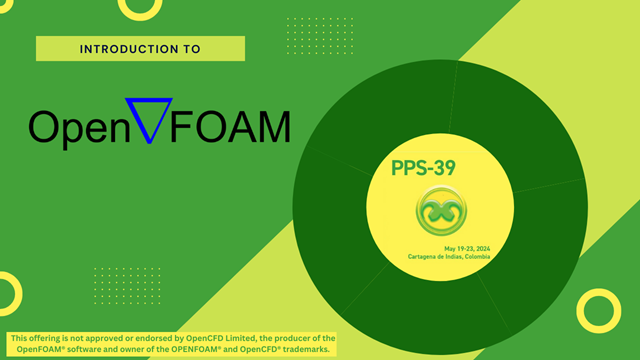
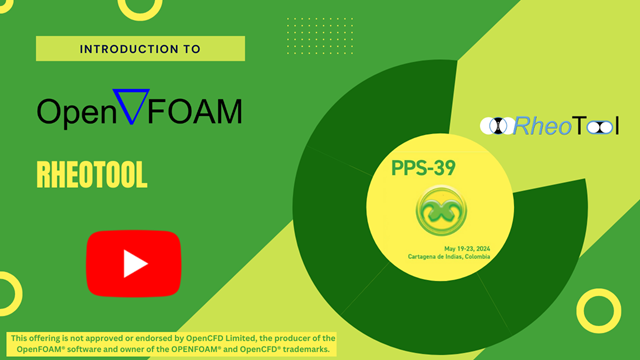
Rheotool

Changed region(s): [[0.0312, 0.2444, 0.4688, 0.5194], [0.6875, 0.1528, 0.9688, 0.55], [0.125, 0.6111, 0.2812, 0.8556]]

diff --git a/0-Setup/README.md b/0-Setup/README.md
@@ -78,3 +78,67 @@ openfoam2206
 ```console
 echo 'shopt -s direxpand' >> .bashrc
 ```
+
+## 6 - Reduced version of Rheotool (https://github.com/fppimenta/rheoTool/)
+
+[![System Setup](images/6.png)](http://www.youtube.com/watch?v=6NyOLJvoeE0 "System preparation")
+
+Move to the home folder
+```console
+cd
+```
+
+6.1 install zip utility
+
+```console
+sudo apt-get install zip
+```
+
+6.2 Copy and unzip the Reduced version of Rheotool from the course repository
+
+```console
+wget https://github.com/Computational-Rheology/PPS39_OFCourse/raw/main/4-Case_studies_Viscoelastic_fluid_flow_solvers/rheotoolPPS39.zip
+```
+
+```console
+unzip rheotoolPPS39.zip
+```
+
+6.3 Load openFOAM environment
+
+```console
+openfoam2206
+```
+
+6.4 Change to the rheotoolPPS39 folder
+
+```console
+cd rheotoolPPS39
+```
+
+6.5 Change to the rheotoolPPS39 folder
+```console
+./downloadEigen
+```
+
+6.6 Copy and run the recommended command, e.g.
+
+> echo "export EIGEN_RHEO=/home/<username>/OpenFOAM/<username>-v2206/ThirdParty/Eigen3.2.9">>/home/<username>/.bashrc
+
+6.7 load the .bashrc file
+
+```console
+. ~/.bashrc
+```
+
+6.8 Change to the src folder
+
+```console
+cd src
+```
+
+6.9 Compile the Rheotool
+
+```console
+./Allwmake
+```
